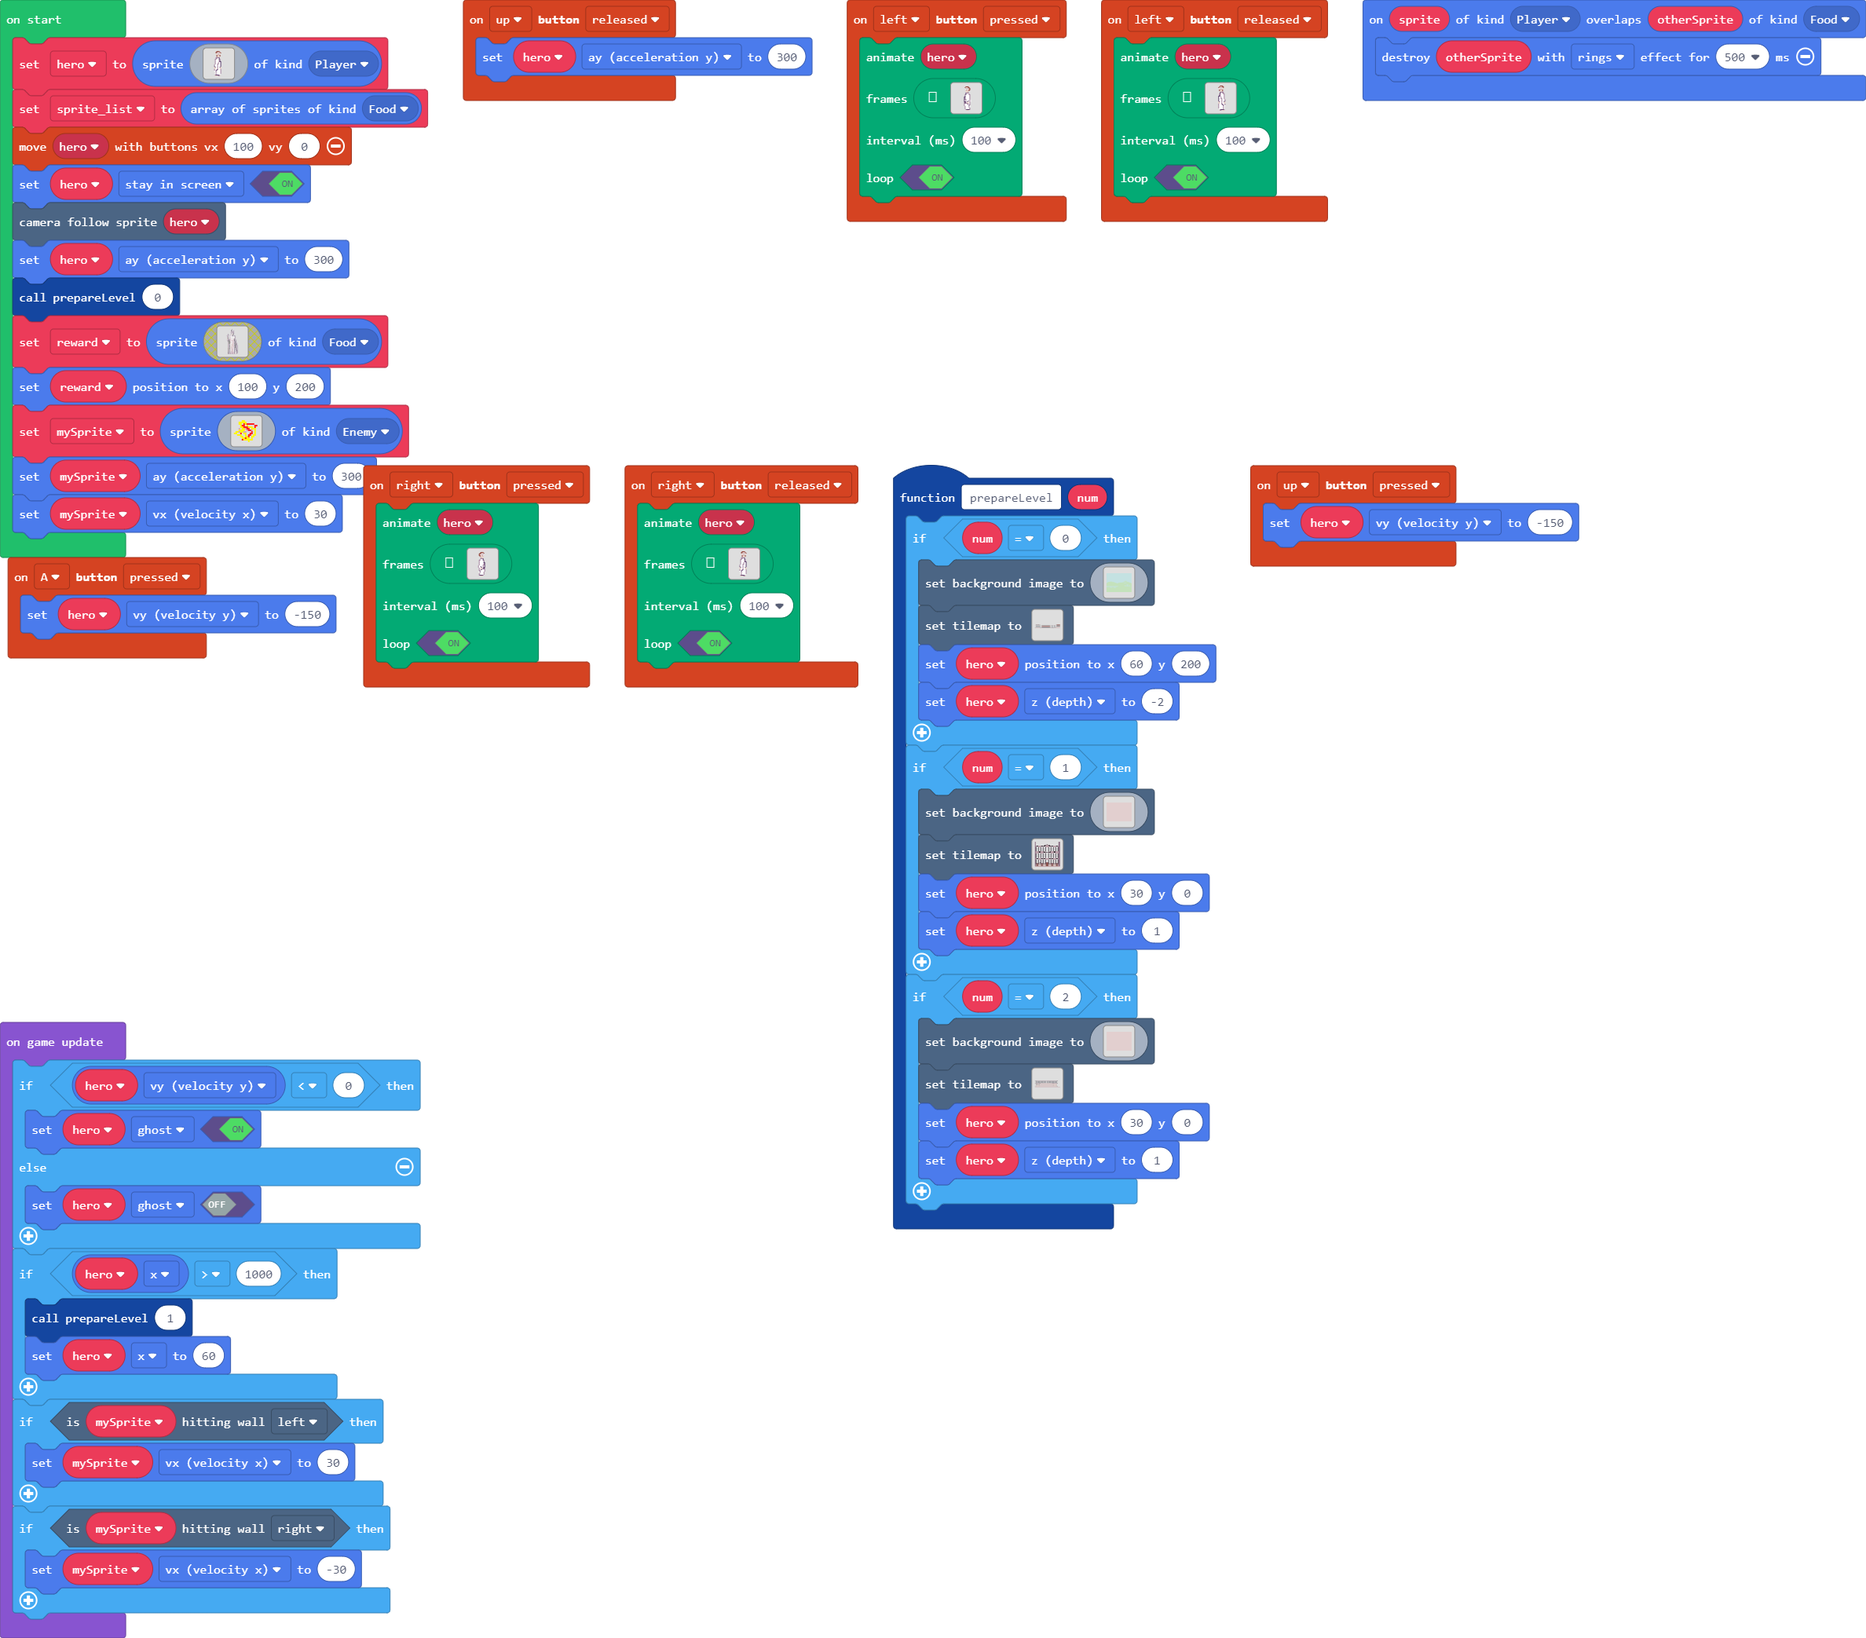
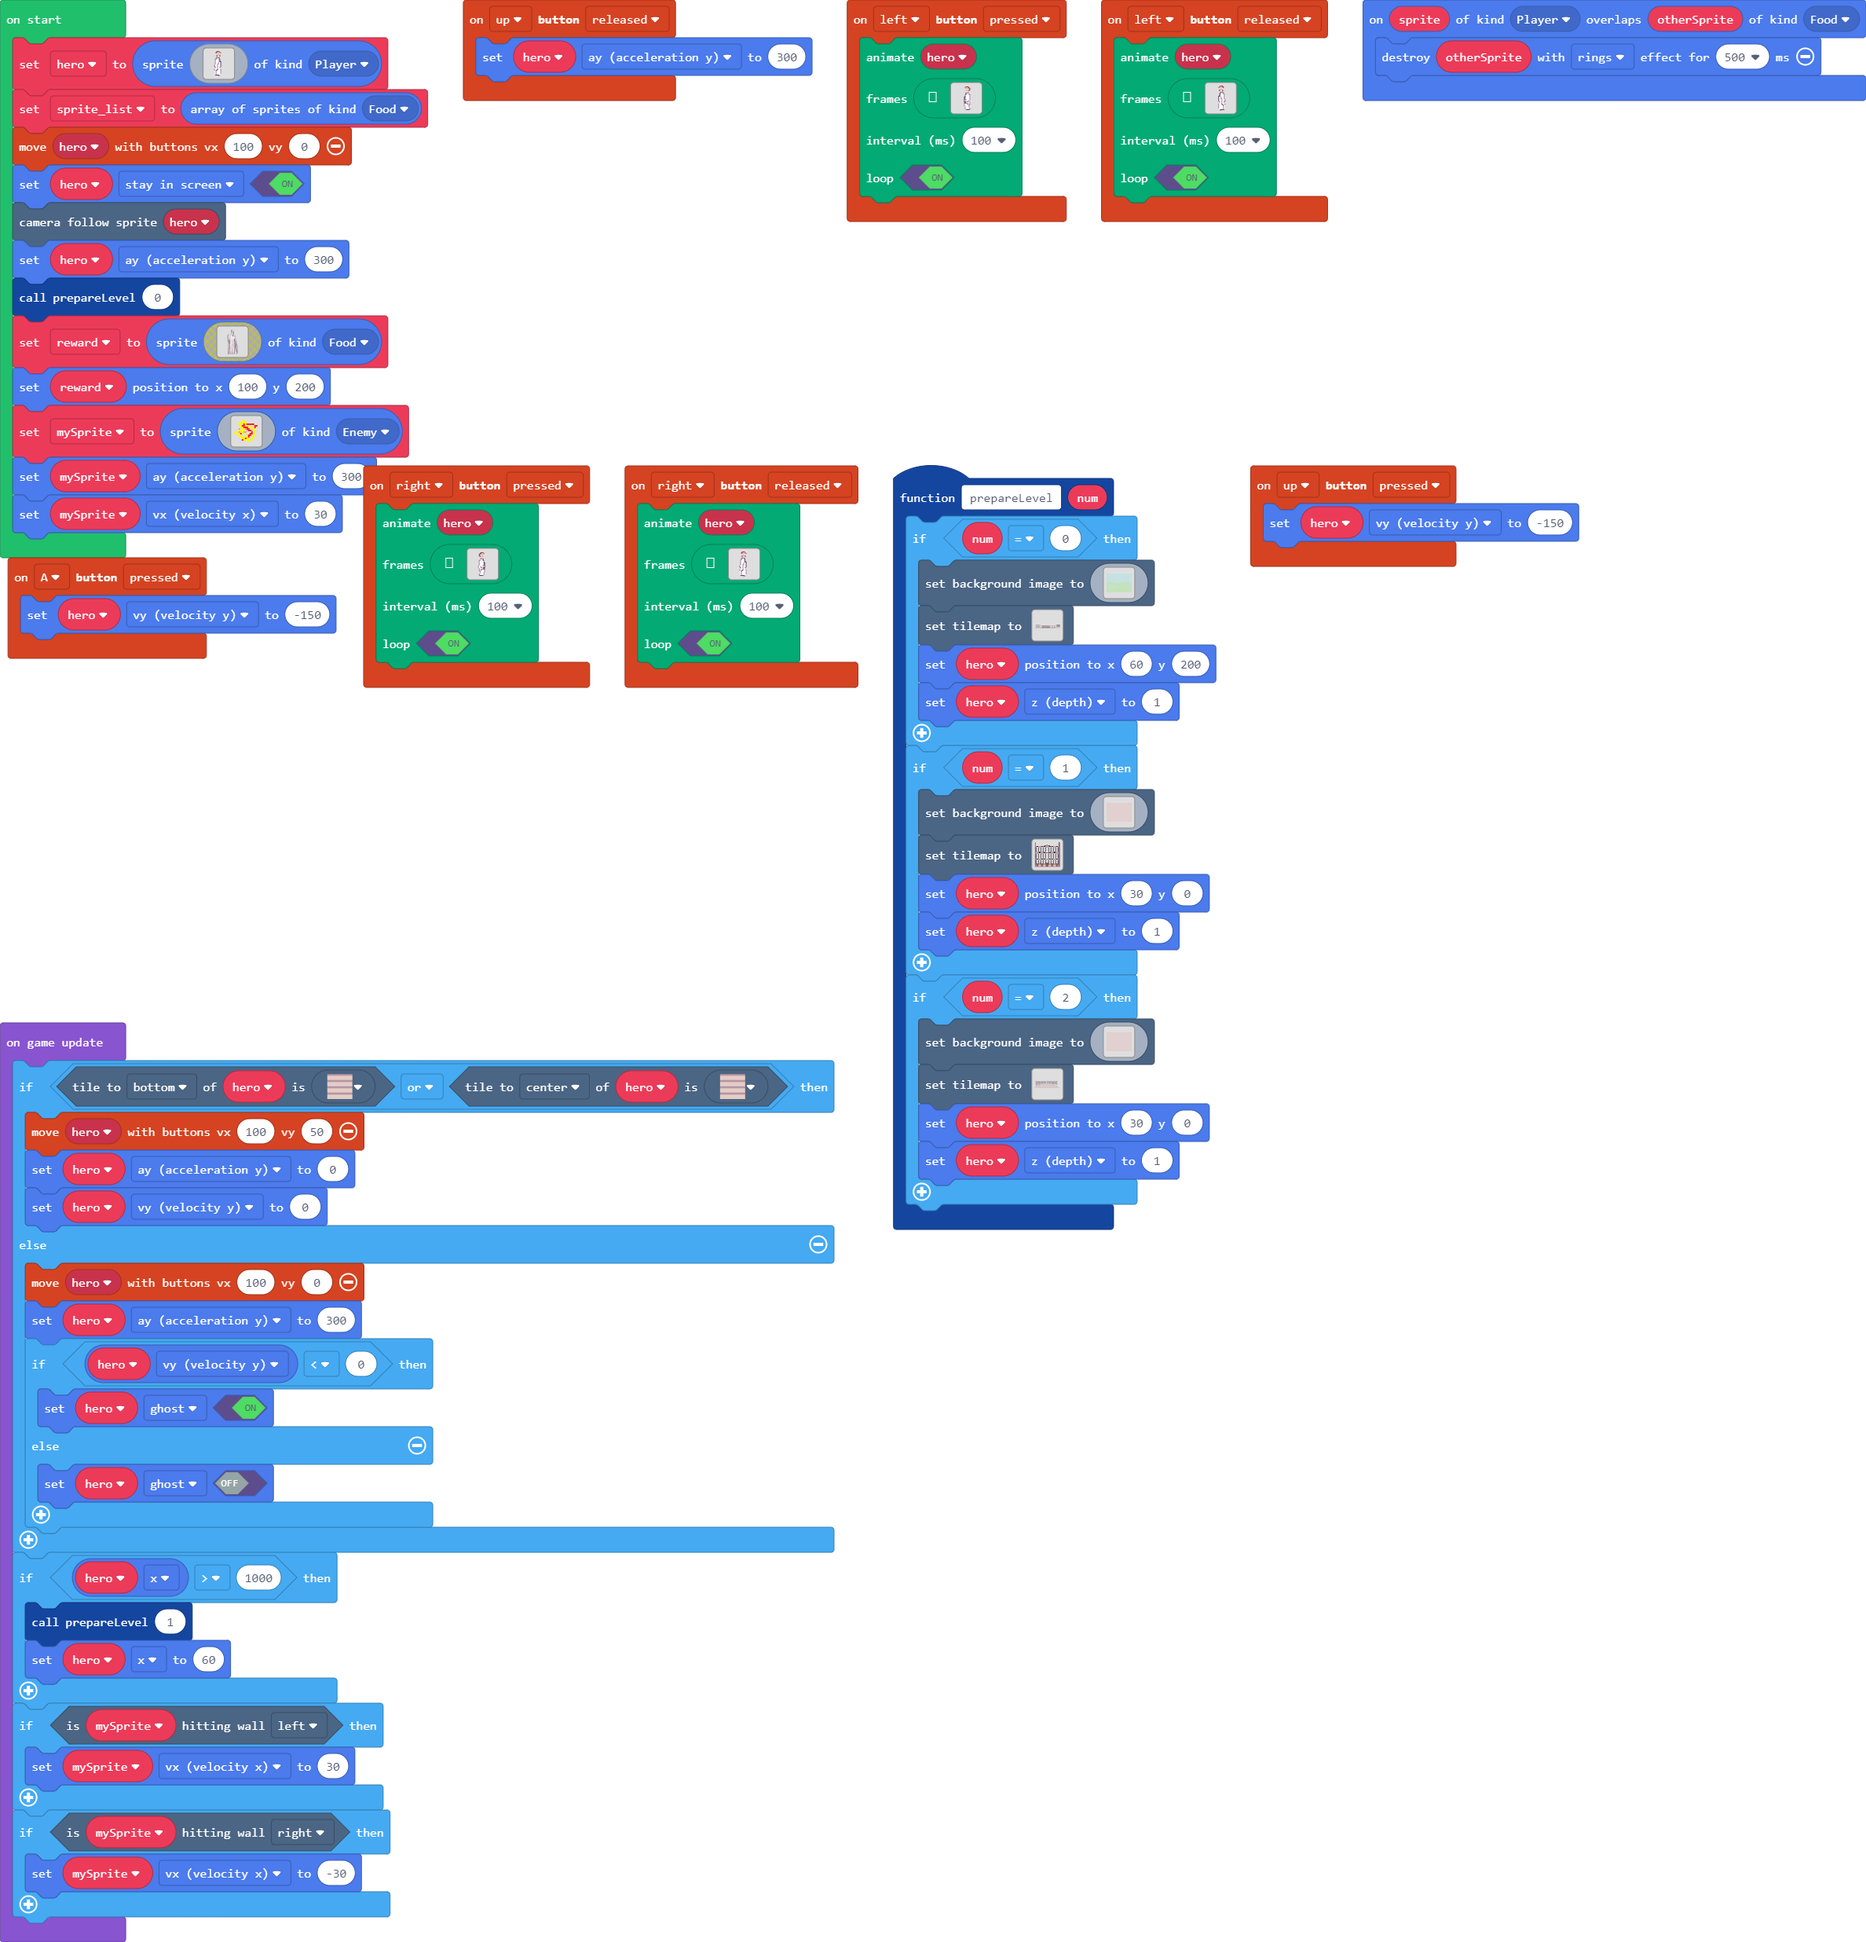
stairs

Changed region(s): [[0.0, 0.0, 0.8721, 0.9971], [0.436, 0.0, 0.7163, 0.1558], [0.7163, 0.0, 1.0, 0.0623]]

diff --git a/main.ts b/main.ts
@@ -1746,16 +1746,16 @@ function prepareLevel (num: number) {
 . . . . . . . . . . . . . . . . . . . . . . . . . . . . . . . . . . . . . . . . . . 2 2 2 . . . 2 2 2 . . . . . . . . . . . . . 
 . . . . . . . . . . . . . . . . . 2 2 2 2 2 2 2 2 2 2 2 2 2 2 2 2 2 2 2 2 2 2 . . . . . . . . . . . . . . . . . . . . . . . . . 
 . . . . . . . . . . . . . . . . . . . . . . . . . . . . . . . . . . . . . . . . . . . . . . . . . . . . . . . . . . . . . . . . 
-. . . . . . . . . . . . . . . . . . . . . . . . . . . . . . . . . . . . . . . . . . . . . . . . . . . . . . 2 2 2 2 2 2 2 2 2 2 
-. . . . . . . . . . . . . . . . . . . . . . . . . . . . . . . . . . . . . . . . . . . . . . . . . . . . . 2 . . . . . . . . . . 
-. 2 2 2 2 2 2 2 2 2 2 2 2 2 . 2 . . . . . . . . . . . . . . . . . . . . . . . . . . . . . . . . . . . . 2 . . . . . . . . . . . 
-2 2 2 2 . . . . . . . . 2 2 2 2 2 2 2 2 2 2 2 2 2 2 2 2 2 2 2 2 2 2 2 2 2 2 2 2 2 2 2 2 2 2 2 2 2 2 2 2 2 2 2 2 2 2 2 2 2 2 2 2 
+. . . . . . . . . . . . . . . . . . . . . . . . . . . . . . . . . . . . . . . . . . . . . . . . . . . . . . . . . . . . . . . . 
+. . . . . . . . . . . . . . . . . . . . . . . . . . . . . . . . . . . . . . . . . . . . . . . . . . . . . . . . . . . . . . . . 
+. . . . . . . . . . . . . . . 2 . . . . . . . . . . . . . . . . . . . . . . . . . . . . . . . . . . . . . . . . . . . . . . . . 
+2 2 2 2 2 2 2 2 2 2 2 2 2 2 2 2 2 2 2 2 2 2 2 2 2 2 2 2 2 2 2 2 2 2 2 2 2 2 2 2 2 2 2 2 2 2 2 2 2 2 2 2 2 2 2 2 2 2 2 2 2 2 2 2 
 `,
             [myTiles.tile0,sprites.castle.tileGrass2,sprites.castle.tileDarkGrass2,sprites.castle.tilePath5,myTiles.tile1,myTiles.tile2,myTiles.tile3,myTiles.tile4,myTiles.tile5,myTiles.tile6,myTiles.tile7,myTiles.tile9,myTiles.tile10,myTiles.tile11,myTiles.tile12,myTiles.tile13,myTiles.tile14,myTiles.tile15,myTiles.tile16,myTiles.tile17,myTiles.tile19,myTiles.tile20,myTiles.tile21,myTiles.tile22,myTiles.tile23,myTiles.tile24,myTiles.tile25,myTiles.tile26,myTiles.tile27,myTiles.tile28,myTiles.tile29,myTiles.tile30,myTiles.tile31,myTiles.tile32,myTiles.tile33,myTiles.tile34,myTiles.tile35,myTiles.tile36,myTiles.tile37,myTiles.tile38,myTiles.tile39,myTiles.tile40,myTiles.tile41,myTiles.tile42,myTiles.tile43,myTiles.tile44,myTiles.tile45,myTiles.tile46,myTiles.tile47,myTiles.tile48,myTiles.tile49,myTiles.tile50,myTiles.tile51,myTiles.tile52,myTiles.tile53,myTiles.tile54,myTiles.tile55,myTiles.tile56,myTiles.tile57,myTiles.tile58,myTiles.tile59,myTiles.tile60,myTiles.tile61,myTiles.tile62,myTiles.tile63,myTiles.tile64,myTiles.tile65,myTiles.tile66,myTiles.tile67,myTiles.tile68,myTiles.tile69,myTiles.tile70,myTiles.tile71,myTiles.tile72,myTiles.tile73],
             TileScale.Sixteen
         ))
         hero.setPosition(60, 200)
-        hero.z = -2
+        hero.z = 1
     }
     if (num == 1) {
         scene.setBackgroundImage(img`
@@ -2204,10 +2204,18 @@ let mySprite = sprites.create(img`
 mySprite.ay = 300
 mySprite.vx = 30
 game.onUpdate(function () {
-    if (hero.vy < 0) {
-        hero.setFlag(SpriteFlag.Ghost, true)
+    if (hero.tileKindAt(TileDirection.Bottom, myTiles.tile6) || hero.tileKindAt(TileDirection.Center, myTiles.tile6)) {
+        controller.moveSprite(hero, 100, 50)
+        hero.ay = 0
+        hero.vy = 0
     } else {
-        hero.setFlag(SpriteFlag.Ghost, false)
+        controller.moveSprite(hero, 100, 0)
+        hero.ay = 300
+        if (hero.vy < 0) {
+            hero.setFlag(SpriteFlag.Ghost, true)
+        } else {
+            hero.setFlag(SpriteFlag.Ghost, false)
+        }
     }
     if (hero.x > 1000) {
         prepareLevel(1)
